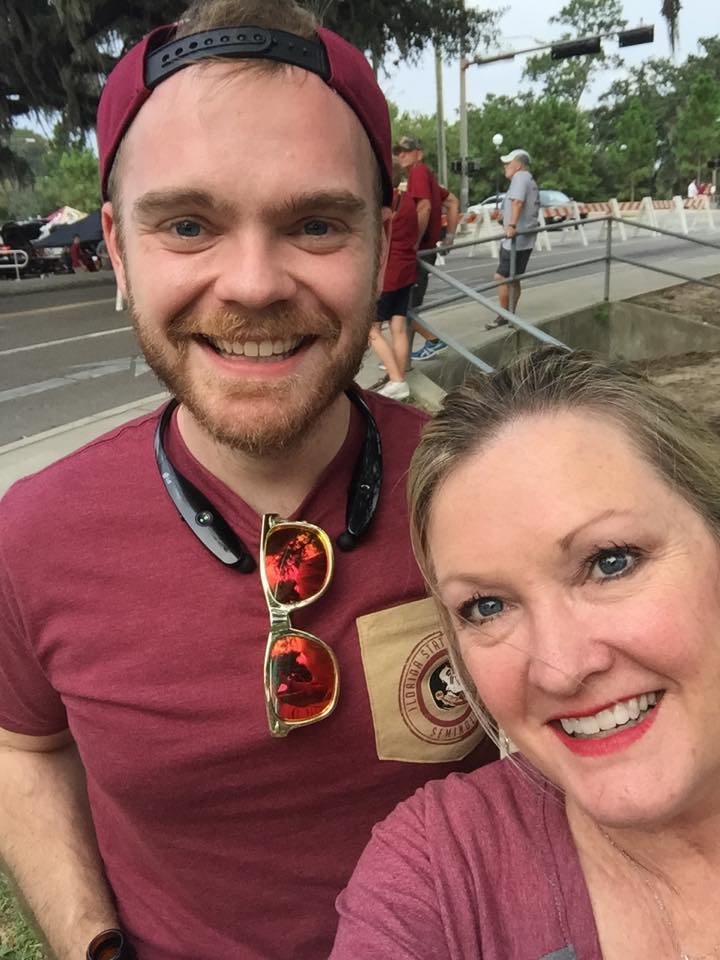
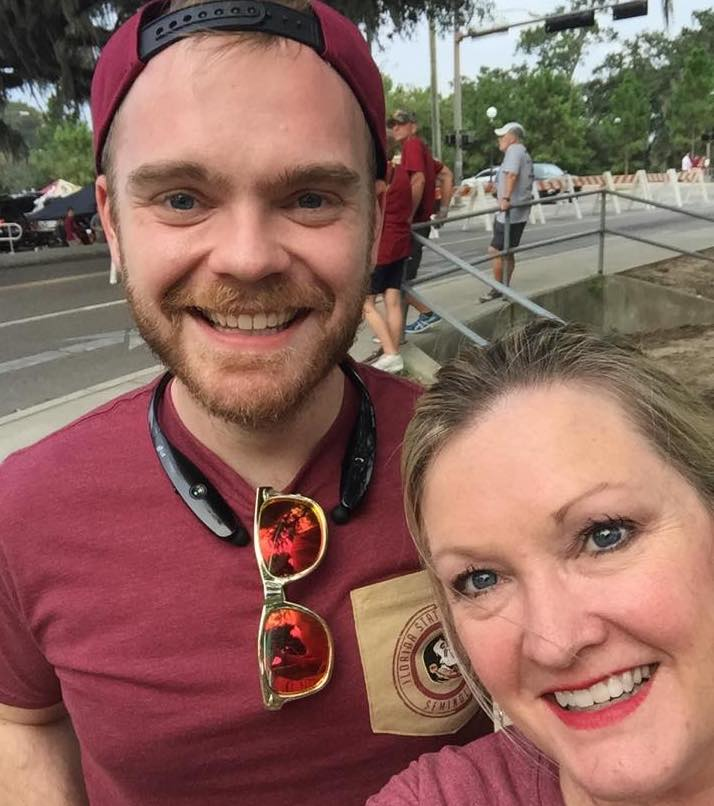
played with images to make them less distorted

diff --git a/src/components/Gallery.js b/src/components/Gallery.js
@@ -19,7 +19,6 @@ const Gallery = () => {
         <img src={require("../img/steph-chris-barb.png")} onDragStart={handleOnDragStart} className="picture" alt="pic2"/>
         <img src={require("../img/meandmom.jpg")} onDragStart={handleOnDragStart} className="picture" alt="pic3"/>
         <img src={require("../img/ginmill.jpg")} onDragStart={handleOnDragStart} className="picture" alt="pic4"/>
-        <img src={require("../img/cloud9cast.jpg")} onDragStart={handleOnDragStart} className="picture" alt="pic5"/>
         <img src={require("../img/car3.png")} onDragStart={handleOnDragStart} className="picture" alt="pic18"/>
         <img src={require("../img/sushi.png")} onDragStart={handleOnDragStart} className="picture" alt="pic20"/>
         <img src={require("../img/fsu.jpg")} onDragStart={handleOnDragStart} className="picture" alt="pic21"/>
@@ -30,15 +29,13 @@ const Gallery = () => {
         <img src={require("../img/wedding.jpg")} onDragStart={handleOnDragStart} className="picture" alt="pic11"/>
         <img src={require("../img/cloud9fam.jpg")} onDragStart={handleOnDragStart} className="picture" alt="pic7"/>
         <img src={require("../img/toothfairy.jpg")} onDragStart={handleOnDragStart} className="picture" alt="pic8"/>
+        <img src={require("../img/car2.png")} onDragStart={handleOnDragStart} className="picture" alt="pic15"/>
         <img src={require("../img/christmascarol.jpg")} onDragStart={handleOnDragStart} className="picture" alt="pic9"/>
         <img src={require("../img/colorado.jpg")} onDragStart={handleOnDragStart} className="picture" alt="pic10"/>
         <img src={require("../img/wedding.jpg")} onDragStart={handleOnDragStart} className="picture" alt="pic11"/>
-        <img src={require("../img/cats.png")} onDragStart={handleOnDragStart} className="picture" alt="pic19"/>
         <img src={require("../img/cloud9luke.png")} onDragStart={handleOnDragStart} className="picture" alt="pic12"/>
-        <img src={require("../img/mcb2.png")} onDragStart={handleOnDragStart} className="picture" alt="pic17"/>
         <img src={require("../img/eddie.png")} onDragStart={handleOnDragStart} className="picture" alt="pic13"/>
         <img src={require("../img/car1.png")} onDragStart={handleOnDragStart} className="picture" alt="pic14"/>
-        <img src={require("../img/car2.png")} onDragStart={handleOnDragStart} className="picture" alt="pic15"/>
         <img src={require("../img/steph2.png")} onDragStart={handleOnDragStart} className="picture" alt="pic16"/>
 
 

diff --git a/src/App.css b/src/App.css
@@ -23,8 +23,15 @@ min-height: 100vh;
   max-width: 800px;
 } */
 .alice-carousel ul li img{
-  height: 640px;
+  height: 500px;
   width: 100%;
+  object-fit: cover;
+}
+
+.alice-carousel img{
+  margin-left: auto;
+  margin-right: auto;
+  width: 98%;
   display: block;
 }
 
@@ -43,7 +50,7 @@ min-height: 100vh;
 }
 .alice-carousel__wrapper {
   padding-top: 30px;
-  max-width: 800px;
+  max-width: 600px;
 }
 /* .condiv class is for the right side content container*/
 .condiv {
